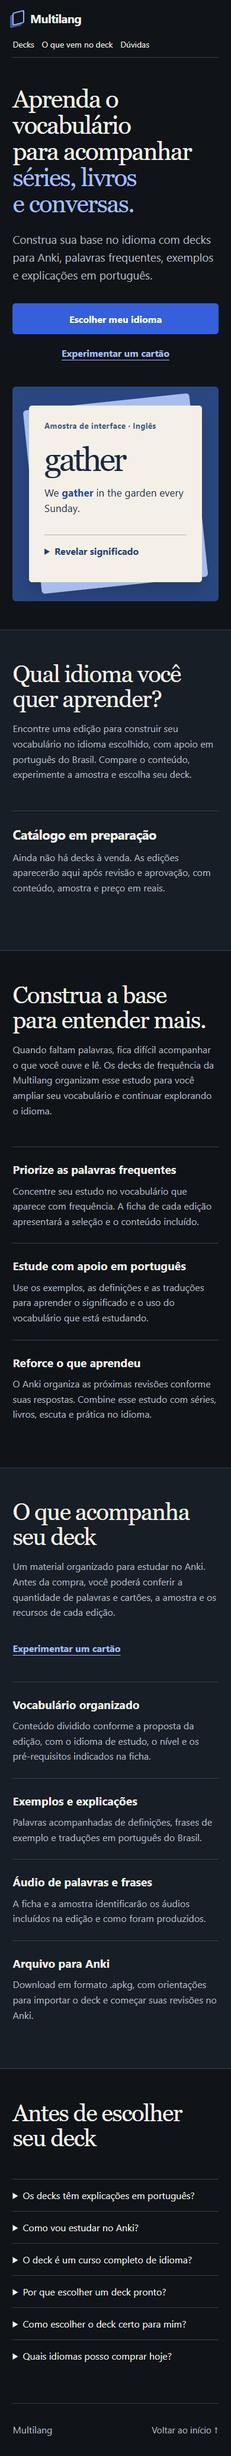
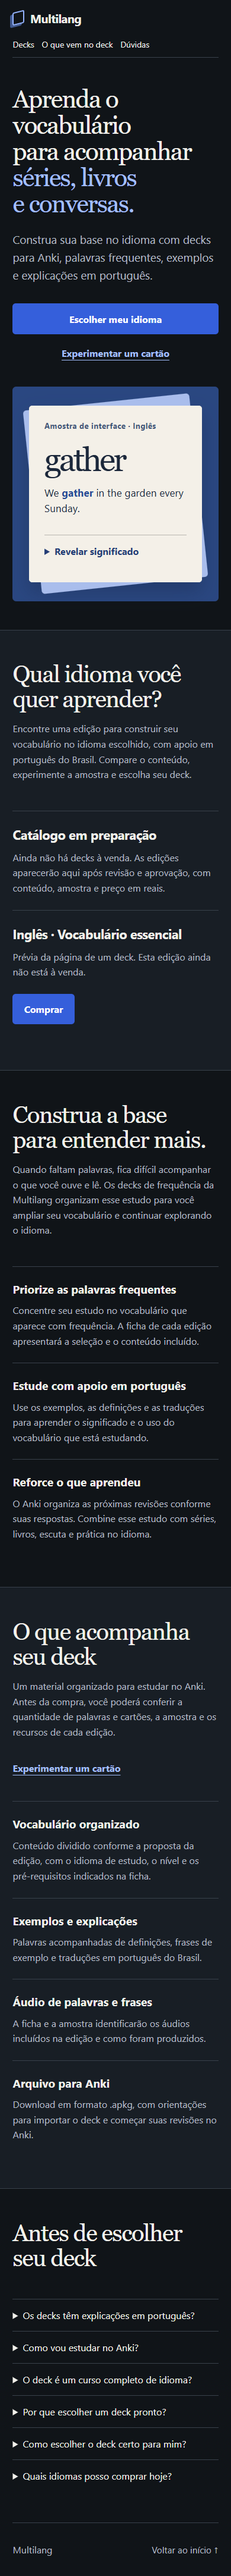
feat(web): add dedicated deck presentation and demo page

diff --git a/frontend/apps/web/decks/ingles-frequencia/index.html b/frontend/apps/web/decks/ingles-frequencia/index.html
@@ -1,0 +1,104 @@
+<!doctype html>
+<html lang="pt-BR" data-type="software">
+<head>
+  <meta charset="utf-8">
+  <meta name="viewport" content="width=device-width, initial-scale=1">
+  <meta name="page-type" content="software">
+  <meta name="site-kind" content="software">
+  <meta name="description" content="Conheça a proposta do deck de inglês da Multilang: vocabulário para Anki, apoio em português, demonstração e dúvidas. Prévia de uma edição em preparação.">
+  <meta property="og:title" content="Inglês · Vocabulário essencial | Multilang">
+  <meta property="og:description" content="Uma base de vocabulário para acompanhar o inglês nas leituras, séries e conversas. Conheça a proposta e experimente um cartão de interface.">
+  <meta property="og:type" content="website">
+  <title>Inglês · Vocabulário essencial | Multilang</title>
+  <link rel="stylesheet" href="../../site.css">
+  <link rel="stylesheet" href="product.css">
+</head>
+<body class="product-page">
+  <a class="skip" href="#conteudo">Pular para o conteúdo</a>
+  <header class="shell">
+    <a href="../../index.html" class="brand" aria-label="Multilang, Loja"><i aria-hidden="true"></i>Multilang</a>
+    <nav aria-label="Deck"><a href="#demo">Demo</a><a href="#avaliacoes">Avaliações</a><a href="#duvidas">Dúvidas</a></nav>
+  </header>
+  <main id="conteudo">
+    <div class="shell breadcrumb"><a class="textlink" href="../../index.html#catalogo">Todos os decks</a><span>Inglês</span></div>
+    <section class="product-hero shell" aria-labelledby="titulo">
+      <div class="pitch">
+        <h1 id="titulo">O vocabulário para começar a <span>entender inglês.</span></h1>
+        <p class="intro">Construa sua base para acompanhar as histórias, as ideias e as conversas que interessam a você. Um deck de frequência para estudar no Anki, com apoio em português.</p>
+        <div class="hero-actions"><a class="action" href="#demo">Experimentar o deck</a><a class="textlink" href="#adquirir">Ver disponibilidade</a></div>
+        <p class="preview-note">Prévia de apresentação. A edição ainda não está disponível para compra.</p>
+      </div>
+      <div class="deck-cover" aria-label="Apresentação do deck digital Inglês, Vocabulário essencial, da Multilang">
+        <span class="cover-brand">Multilang</span>
+        <p class="cover-language">Inglês</p>
+        <p class="cover-title">Vocabulário<br>essencial</p>
+        <dl class="cover-facts"><div><dt>Estudo</dt><dd>Frequência</dd></div><div><dt>Apoio</dt><dd>Português</dd></div><div><dt>Formato</dt><dd>Deck digital · Anki</dd></div></dl>
+      </div>
+    </section>
+
+    <section id="sobre" class="product-band" aria-labelledby="titulo-sobre">
+      <div class="shell split">
+        <div><h2 id="titulo-sobre">Uma base para ir<br>além das palavras soltas.</h2><p class="bodycopy">Este deck reúne a proposta da Multilang para estudar vocabulário frequente de inglês: palavras, significados e exemplos organizados em cartões para revisar no Anki.</p></div>
+        <div class="prose"><h3>Para que serve</h3><p>Para construir e revisar o vocabulário que ajuda você a acompanhar leituras, escuta e situações do dia a dia. Use as revisões junto do contato com o inglês, nos conteúdos e nas conversas que fazem parte da sua vida.</p><h3>Para quem faz sentido</h3><p>Para quem quer organizar o estudo de vocabulário e prefere explicações em português. A ficha da edição aprovada informará o conteúdo, o nível inicial e os pré-requisitos.</p></div>
+      </div>
+    </section>
+
+    <section id="missao" class="mission shell" aria-labelledby="titulo-missao">
+      <h2 id="titulo-missao">Nossa missão é aproximar<br>você de outros idiomas.</h2>
+      <p>Na Multilang, queremos tornar o estudo de vocabulário mais acessível a quem aprende com apoio em português. Nossa proposta combina palavras úteis, conteúdo confiável e uma estrutura que você pode levar para sua rotina no Anki.</p>
+      <p>O objetivo é ajudar você a construir uma base para explorar o idioma com autonomia. Cada edição deve ser revisada e ter seu conteúdo apresentado com clareza antes da venda.</p>
+    </section>
+
+    <section id="caracteristicas" class="product-band" aria-labelledby="titulo-caracteristicas">
+      <div class="shell section-stack">
+        <div class="section-heading"><h2 id="titulo-caracteristicas">O que faz parte<br>do seu estudo</h2><p class="bodycopy">Os recursos abaixo descrevem a proposta desta edição. A versão aprovada terá contagens, amostra, áudios e condições de entrega confirmados na ficha.</p></div>
+        <dl class="feature-list">
+          <div><dt>Vocabulário frequente</dt><dd>Uma seleção organizada para construir sua base. A ficha apresentará a origem do vocabulário e separará a quantidade de palavras da quantidade de cartões.</dd></div>
+          <div><dt>Definições e exemplos</dt><dd>Significados, frases de exemplo e traduções em português para estudar o uso das palavras junto do vocabulário.</dd></div>
+          <div><dt>Áudio de palavras e frases</dt><dd>Gravações separadas para a palavra e para o exemplo. A edição informará os áudios disponíveis e identificará a voz sintetizada quando produzida pelo Azure.</dd></div>
+          <div><dt>Espaço para suas imagens</dt><dd>O campo de imagem começa vazio. Depois de importar o deck, você pode acrescentar no Anki imagens que tenham sentido para o seu estudo.</dd></div>
+          <div><dt>Revisões no Anki</dt><dd>O aplicativo agenda as próximas revisões conforme suas respostas. A prática continua no Anki, junto da sua rotina de leitura, escuta e uso do idioma.</dd></div>
+          <div><dt>Download em .apkg</dt><dd>O formato de entrega previsto é um pacote para importar no Anki. A página da versão publicada trará as instruções de importação e atualização.</dd></div>
+        </dl>
+      </div>
+    </section>
+
+    <section id="demo" class="demo-section shell split" aria-labelledby="titulo-demo" tabindex="-1">
+      <div><h2 id="titulo-demo">Experimente<br>uma revisão.</h2><p class="bodycopy">Leia o exemplo e revele o significado. É uma forma de conhecer a interação antes de escolher seu deck.</p><p class="demo-note">Este cartão foi reaproveitado da demonstração do Estúdio. Ainda não é a amostra de uma edição à venda. O áudio não está disponível nesta prévia.</p></div>
+      <div class="demo-surface">
+        <div class="study-card">
+          <p class="sample-label">Amostra de interface · Inglês</p>
+          <p class="word" lang="en">gather</p>
+          <p class="example" lang="en">We <strong>gather</strong> in the garden every Sunday.</p>
+          <details id="demo-flip" class="flip">
+            <summary><span class="closed">Mostrar verso</span><span class="opened">Ocultar verso</span></summary>
+            <div class="demo-answer"><p><strong>Reunir pessoas ou coisas em um lugar.</strong></p><p>Nós nos reunimos no jardim todos os domingos.</p></div>
+          </details>
+        </div>
+      </div>
+    </section>
+
+    <section id="avaliacoes" class="product-band" aria-labelledby="titulo-avaliacoes">
+      <div class="shell split"><div><h2 id="titulo-avaliacoes">A experiência<br>de quem estuda</h2><p class="bodycopy">Aqui você poderá conhecer os relatos de alunos que usarem esta edição.</p></div><div class="empty-reviews"><h3>Ainda sem avaliações</h3><p>Este deck ainda não foi lançado. As avaliações aparecerão após existirem relatos reais de quem estudou com a edição.</p></div></div>
+    </section>
+
+    <section id="duvidas" class="shell split" aria-labelledby="titulo-duvidas">
+      <h2 id="titulo-duvidas">O que você<br>quer saber?</h2>
+      <div class="faq">
+        <details><summary>O que é um deck para Anki?</summary><p>É um conjunto de cartões de estudo que você importa no Anki. Você tenta lembrar o conteúdo, confere a resposta e informa como foi a revisão para o aplicativo agendar a próxima.</p></details>
+        <details><summary>Preciso saber inglês para começar?</summary><p>As explicações e traduções desta proposta são em português. Os conhecimentos necessários e o público indicado serão informados na ficha da versão aprovada.</p></details>
+        <details><summary>Vou ficar fluente só com o deck?</summary><p>O deck ajuda a estudar vocabulário. Combine as revisões com leitura, escuta, conversa e outras práticas. Seu progresso depende da rotina, do ponto de partida e do contato com o idioma.</p></details>
+        <details><summary>As imagens já vêm nos cartões?</summary><p>O campo de imagem começa vazio. Você pode preenchê-lo manualmente no Anki depois da importação, com imagens que ajudem a lembrar o conteúdo.</p></details>
+        <details><summary>Como são os áudios?</summary><p>A proposta inclui áudio separado para palavras e frases. A versão publicada identificará a voz e os arquivos incluídos. Vozes Azure são sintetizadas, e não gravações de um locutor nativo.</p></details>
+        <details><summary>Como vou receber e importar o deck?</summary><p>A entrega prevista é um arquivo .apkg para abrir no Anki. Antes da venda, serão publicados o procedimento de download, as instruções de importação e as condições de atualização.</p></details>
+        <details><summary>Já posso comprar?</summary><p>Ainda não. Esta é uma prévia da apresentação. A venda depende da aprovação da edição, da amostra correspondente e da definição do preço e das condições comerciais.</p></details>
+      </div>
+    </section>
+
+    <section id="adquirir" class="purchase-section" aria-labelledby="titulo-compra">
+      <div class="shell split"><div><h2 id="titulo-compra">Seu próximo passo<br>no inglês.</h2><p class="bodycopy">Confira a amostra, o conteúdo e os pré-requisitos antes de escolher. O deck deve fazer sentido para o seu momento de estudo.</p></div><div class="purchase-summary"><h3>Inglês · Vocabulário essencial</h3><dl><div><dt>Disponibilidade</dt><dd>Em preparação</dd></div><div><dt>Preço em reais</dt><dd>Em definição</dd></div><div><dt>Formato previsto</dt><dd>Arquivo .apkg para Anki</dd></div></dl><button class="action" type="button" disabled>Compra ainda indisponível</button><p>Você está vendo uma prévia. Nenhum pagamento é solicitado.</p></div></div>
+    </section>
+  </main>
+  <footer class="shell"><span>Multilang</span><a href="../../index.html#catalogo">Voltar à Loja</a></footer>
+</body>
+</html>

diff --git a/frontend/apps/web/decks/ingles-frequencia/product.css b/frontend/apps/web/decks/ingles-frequencia/product.css
@@ -1,0 +1,55 @@
+.breadcrumb { display: flex; align-items: center; gap: 1.25rem; padding-top: 1.25rem; color: var(--muted); }
+.breadcrumb a { display: inline-flex; align-items: center; min-height: 44px; }
+.breadcrumb span { border-left: 1px solid var(--line); padding-left: 1.25rem; }
+.product-hero { display: grid; grid-template-columns: 1.1fr .9fr; align-items: center; gap: clamp(2rem, 6vw, 6rem); padding-block: clamp(2.5rem, 5vw, 5rem); min-height: calc(100svh - 160px); }
+.product-hero h1 { font-size: clamp(2.7rem, 4.7vw, 4.7rem); }
+.preview-note, .demo-note { font-size: .95rem; color: var(--muted); line-height: 1.6; max-width: 44ch; }
+.preview-note { margin: 1.5rem 0 0; }
+.deck-cover { background: #1b3158; color: #eef2f8; padding: clamp(2rem, 4vw, 3.5rem); border-radius: 12px; }
+.cover-brand { display: block; padding-bottom: 2rem; border-bottom: 1px solid #647a9d; font-size: 1.15rem; font-weight: 650; }
+.cover-language { font: 400 clamp(4rem, 7vw, 7rem)/1.1 Georgia, serif; letter-spacing: -.035em; margin: 2rem 0 1rem; }
+.cover-title { color: #bcd1fb; font-size: clamp(1.6rem, 2.5vw, 2.3rem); line-height: 1.2; margin-bottom: 2.5rem; }
+.cover-facts { margin: 0; }
+.cover-facts div { display: flex; justify-content: space-between; flex-wrap: wrap; gap: .5rem; border-top: 1px solid #647a9d; padding-block: .75rem; }
+.cover-facts dt { color: #bcd1fb; }
+.cover-facts dd { margin: 0; }
+.product-band { background: #181e25; border-block: 1px solid var(--line); }
+.prose p, .mission p, .empty-reviews p { color: var(--muted); line-height: 1.65; }
+.prose p { margin-bottom: 2rem; max-width: 52ch; }
+.prose p:last-child { margin-bottom: 0; }
+.prose h3 { margin-bottom: .75rem; }
+.mission { padding-block: clamp(3.5rem, 7vw, 7rem); }
+.mission h2 { max-width: 24ch; margin-bottom: 1.7rem; }
+.mission p { max-width: 68ch; font-size: 1.15rem; }
+.mission p:last-child { margin-bottom: 0; }
+.section-stack { padding-block: clamp(3.5rem, 7vw, 7rem); }
+.section-heading { display: grid; grid-template-columns: 1fr 1fr; gap: clamp(2rem, 5vw, 6rem); align-items: start; margin-bottom: 3rem; }
+.feature-list { margin: 0; }
+.feature-list div { display: grid; grid-template-columns: 1fr 1fr; gap: clamp(1rem, 5vw, 6rem); padding-block: 1.6rem; border-top: 1px solid var(--line); }
+.feature-list dt { font-size: 1.25rem; font-weight: 650; }
+.feature-list dd { margin: 0; color: var(--muted); line-height: 1.6; max-width: 52ch; }
+.demo-section:focus { outline: 3px solid #feae68; outline-offset: 4px; }
+.demo-surface { padding: clamp(1.25rem, 3vw, 3rem); background: #1b3158; border-radius: 12px; }
+.study-card { color-scheme: light; color: #1b273a; background: #f4f0e8; padding: clamp(1.4rem, 3vw, 3rem); border-radius: 12px; }
+.study-card .word { letter-spacing: -.035em; }
+.empty-reviews { border-top: 1px solid var(--line); padding-top: 1.5rem; }
+.empty-reviews h3 { margin-bottom: .75rem; }
+.purchase-section { background: #1b2b48; }
+.purchase-section .bodycopy { color: #c6d5ee; }
+.purchase-summary { padding-block: 1rem; }
+.purchase-summary dl { margin-block: 1.5rem; }
+.purchase-summary dl div { display: flex; flex-wrap: wrap; justify-content: space-between; gap: .5rem 1rem; padding-block: 1rem; border-top: 1px solid #60718f; }
+.purchase-summary dt { color: #c6d5ee; }
+.purchase-summary dd { margin: 0; }
+.purchase-summary button { width: 100%; justify-content: center; border: 0; font: inherit; min-height: 52px; }
+.purchase-summary button:disabled { background: #34445f; color: #d3deef; cursor: not-allowed; transform: none; }
+.purchase-summary > p { color: #c6d5ee; font-size: .95rem; line-height: 1.6; margin: 1rem 0 0; }
+@media (prefers-reduced-motion: no-preference) { .product-hero .pitch { animation: arrive .45s ease-out; } }
+@media (max-width: 760px) {
+  .product-hero, .section-heading, .feature-list div { grid-template-columns: 1fr; }
+  .product-hero { min-height: auto; padding-block: 2rem 3rem; }
+  .deck-cover { max-width: 100%; }
+  .feature-list div { gap: .75rem; }
+  .section-heading { margin-bottom: 2rem; }
+  .product-page .hero-actions a { min-height: 48px; }
+}

diff --git a/frontend/apps/web/index.html b/frontend/apps/web/index.html
@@ -47,6 +47,11 @@
         <div class="availability">
           <h3>Catálogo em preparação</h3>
           <p>Ainda não há decks à venda. As edições aparecerão aqui após revisão e aprovação, com conteúdo, amostra e preço em reais.</p>
+          <article class="catalog-preview" aria-labelledby="preview-title">
+            <h3 id="preview-title">Inglês · Vocabulário essencial</h3>
+            <p id="preview-note">Prévia da página de um deck. Esta edição ainda não está à venda.</p>
+            <a class="action" href="decks/ingles-frequencia/index.html" aria-describedby="preview-note">Comprar</a>
+          </article>
         </div>
       </div>
     </section>

diff --git a/frontend/apps/web/site.css b/frontend/apps/web/site.css
@@ -59,6 +59,8 @@ h2 { font-size: clamp(2.5rem, 4vw, 4.1rem); line-height: 1.05; letter-spacing: -
 h3 { font-size: 1.4rem; letter-spacing: -.03em; }
 .availability { border-top: 1px solid var(--line); padding-block: 1.5rem; }
 .availability h3 { margin-bottom: .7rem; }
+.catalog-preview { border-top: 1px solid var(--line); margin-top: 1.5rem; padding-top: 1.5rem; }
+.catalog-preview .action { margin-top: .5rem; }
 .textlink { color: var(--blue); font-weight: 650; text-decoration: underline; text-underline-offset: .3em; }
 .textlink:hover { color: #c7d8ff; text-decoration-thickness: 2px; }
 .benefits { margin: 0; }

diff --git a/frontend/scripts/check-storefront-ui.py b/frontend/scripts/check-storefront-ui.py
@@ -1,0 +1,107 @@
+"""Exercise the local deck sales journey with installed Python Playwright and Chrome."""
+
+import argparse
+import json
+from pathlib import Path
+from urllib.parse import unquote, urlsplit
+from urllib.request import url2pathname
+
+from playwright.sync_api import expect, sync_playwright
+
+
+ROOT = Path(__file__).resolve().parents[2]
+WEB = ROOT / "frontend/apps/web"
+WIDTHS = (1440, 1024, 820, 768, 390, 320)
+
+
+def check_links(page):
+    for href in page.locator("a").evaluate_all("links => links.map(link => link.href)"):
+        parsed = urlsplit(href)
+        assert parsed.scheme == "file", href
+        destination = Path(url2pathname(parsed.path)).resolve()
+        assert destination.is_relative_to(WEB) and destination.is_file(), href
+        if destination == Path(url2pathname(urlsplit(page.url).path)).resolve() and parsed.fragment:
+            assert page.locator(f'[id="{unquote(parsed.fragment)}"]').count() == 1, href
+
+
+def main():
+    parser = argparse.ArgumentParser(description=__doc__)
+    parser.add_argument("--screenshots", action="store_true")
+    args = parser.parse_args()
+    output = ROOT / "output/previews/loja-publica/edicao"
+    reports = ROOT / "output/reports/deck-product-page"
+    reports.mkdir(parents=True, exist_ok=True)
+    rows = []
+    with sync_playwright() as playwright:
+        browser = playwright.chromium.launch(channel="chrome", headless=True)
+        try:
+            for width in WIDTHS:
+                page = browser.new_page(
+                    viewport={"width": width, "height": 900 if width > 760 else 844},
+                    reduced_motion="reduce",
+                )
+                page.set_default_timeout(3000)
+                errors, network, failed = [], [], []
+                page.on("pageerror", lambda error: errors.append(str(error)))
+                page.on("requestfailed", lambda request: failed.append(request.url))
+                page.on("request", lambda request: network.append(request.url)
+                        if request.url.startswith(("http:", "https:")) else None)
+                page.goto((WEB / "index.html").as_uri())
+                check_links(page)
+                page.get_by_role("link", name="Comprar", exact=True).click()
+                assert urlsplit(page.url).path.endswith("/decks/ingles-frequencia/index.html")
+                expect(page.locator("h1")).to_contain_text("ingl\u00eas")
+                assert page.evaluate("document.documentElement.scrollWidth <= innerWidth"), width
+                check_links(page)
+                for section in ("sobre", "missao", "caracteristicas", "demo", "avaliacoes", "duvidas", "adquirir"):
+                    expect(page.locator(f"#{section}")).to_be_visible()
+                page.keyboard.press("Tab")
+                expect(page.locator(".skip")).to_be_focused()
+                page.keyboard.press("Enter")
+                page.get_by_role("link", name="Experimentar o deck", exact=True).click()
+                expect(page.locator("#demo")).to_be_focused()
+                demo = page.locator("#demo-flip")
+                demo.locator("summary").press("Enter")
+                expect(demo).to_have_attribute("open", "")
+                expect(demo.locator(".demo-answer")).to_contain_text("Reunir pessoas")
+                demo.locator("summary").press("Enter")
+                expect(demo).not_to_have_attribute("open", "")
+                expect(page.locator("#avaliacoes")).to_contain_text("Ainda sem avalia\u00e7\u00f5es")
+                expect(page.locator("#adquirir button")).to_be_disabled()
+                for details in page.locator(".faq details").all():
+                    details.locator("summary").click()
+                    expect(details).to_have_attribute("open", "")
+                    assert page.evaluate("document.documentElement.scrollWidth <= innerWidth"), width
+                    details.locator("summary").click()
+                for control in page.locator("a, button, summary").all():
+                    assert control.bounding_box()["height"] >= 44, (width, "small control")
+                expect(page.locator("script, form, input")).to_have_count(0)
+                if args.screenshots and width in (1440, 390):
+                    output.mkdir(parents=True, exist_ok=True)
+                    page.goto((WEB / "decks/ingles-frequencia/index.html").as_uri())
+                    page.screenshot(path=str(output / f"ingles-{width}.png"), full_page=width == 390)
+                    if width == 1440:
+                        page.screenshot(path=str(reports / "desktop-full.png"), full_page=True)
+                        page.locator("#demo").screenshot(path=str(output / "demo-1440.png"))
+                        page.locator("#missao").screenshot(path=str(reports / "mission-1440.png"))
+                        page.locator("#adquirir").screenshot(path=str(reports / "purchase-1440.png"))
+                    else:
+                        page.screenshot(path=str(reports / "mobile-top.png"))
+                page.get_by_role("link", name="Todos os decks", exact=True).click()
+                assert Path(url2pathname(urlsplit(page.url).path)) == WEB / "index.html"
+                assert not errors and not network and not failed, (errors, network, failed)
+                if args.screenshots and width in (1440, 390):
+                    page.goto((WEB / "index.html").as_uri())
+                    page.screenshot(
+                        path=str(output.parent / f"loja-{width}.png"), full_page=width == 390
+                    )
+                rows.append({"width": width, "journey": "pass", "keyboard": "pass", "overflow": False})
+                page.close()
+        finally:
+            browser.close()
+    (reports / "checks.json").write_text(json.dumps(rows, indent=2), encoding="utf-8")
+    print(f"PASS: deck sales journey at {len(rows)} widths, no providers or payment calls.")
+
+
+if __name__ == "__main__":
+    main()

diff --git a/docs/product-interface.md b/docs/product-interface.md
@@ -136,18 +136,38 @@ detalha os componentes dos decks e responde às dúvidas de compra. Economia de
 preparo é um benefício secundário, não a promessa principal. A demonstração atual
 continua identificada como amostra de interface; não representa uma edição à venda.
 
-Cada página de produto deverá seguir esta sequência quando houver uma edição aprovada:
+O botão **Comprar** de um deck abre uma página própria de apresentação antes do
+checkout, na mesma aba. Não inicia pagamento nem dispara geração. A prévia local
+usa `frontend/apps/web/decks/ingles-frequencia/index.html`, ligada à entrada de
+demonstração no catálogo. Essa entrada é identificada como prévia e não constitui
+uma edição publicada ou disponível para venda.
 
-1. Nome específico do idioma e objetivo, por exemplo "Vocabulário essencial de inglês".
-2. Público, pré-requisitos, seleção do vocabulário e conteúdo incluído. Separar
-   identidades lexicais e cartões; não usar faixas de frequência como certificados.
-3. Amostra real daquela versão, com frente, verso e os áudios efetivamente incluídos.
-4. Preço final em BRL, compra avulsa, entrega e condições de atualização junto à compra.
-5. Dúvidas sobre importação, escolha da edição, estudo e atendimento.
+A página apresenta:
+
+1. O idioma e o objetivo do deck, com uma apresentação visual da edição.
+2. O que é, para que serve, a quem se destina e os pré-requisitos.
+3. A missão da Multilang, com foco em vocabulário confiável e apoio em português.
+4. Conteúdo e características: vocabulário, definições, exemplos, traduções,
+   áudio separado de palavra e frase, campo de imagem vazio e pacote .apkg.
+5. Demonstração na própria página, com frente e verso interativos.
+6. Avaliações da edição e perguntas frequentes sobre estudo e compra.
+7. Disponibilidade, preço final em BRL, entrega, atualizações e ação de compra.
+
+A direção grafite e azul é preservada. Capa tipográfica, texto, missão e
+composição pertencem à Multilang; a referência Refold orienta a função comercial,
+sem fornecer arte, textos, depoimentos ou promessas para a página.
+
+A demonstração de inglês reaproveita o cartão `gather` do Estúdio; não gera
+conteúdo novo nem áudio. Está identificada como amostra de interface, com áudio
+indisponível. As avaliações estão vazias, sem nota, estrelas ou relatos inventados.
+Preço está em definição e o botão final permanece desabilitado. Na publicação de
+uma edição real, substituir a demo por cartões e mídia daquela versão, confirmar
+contagens e requisitos, e implementar a oferta e o checkout. Separar identidades
+lexicais e cartões; não usar faixas de frequência como certificados.
 
 Catálogo com busca e filtros por idioma e tipo deve refletir as edições publicadas.
-Não oferecer idiomas sem edição aprovada nem adicionar produtos fictícios para
-preencher a vitrine. Depoimentos entram após existirem relatos próprios autorizados.
+Não oferecer idiomas sem edição aprovada nem apresentar prévias como produtos à
+venda. Depoimentos entram após existirem relatos próprios autorizados.
 
 A página de cada edição publicada deverá mostrar exemplos reais daquela
 versão, áudio quando incluído, conteúdo, preço total e uma ação de compra. Depoimentos

diff --git a/frontend/README.md b/frontend/README.md
@@ -5,13 +5,27 @@ cada um com entrada, navegação e folha de estilo próprias. Ambos abrem direta
 no navegador, sem build ou servidor:
 
 - [Loja](apps/web/index.html): demonstração de cartão do Estúdio, catálogo em
-  preparação e ajuda sobre baralhos prontos.
+  preparação e ajuda sobre baralhos prontos. O botão **Comprar** da entrada de
+  prévia abre a [página do deck de inglês](apps/web/decks/ingles-frequencia/index.html).
+  Ela apresenta objetivo, missão, características, cartão interativo, avaliações
+  ainda vazias e dúvidas. A edição não está à venda; preço e checkout estão pendentes.
 - [Gerador pessoal](apps/generator/index.html): instruções de formato para listas
   próprias e destaques do Kindle, sem upload ou geração nesta prévia.
 
 Compra, conta e bibliotecas estão planejadas. A conta compartilhada é uma integração
 futura; os sites não dependem um do outro para abrir. Hospedagem e domínios ficam
 para uma etapa posterior.
+
+Com Python Playwright e Google Chrome já instalados, execute na raiz do repositório:
+
+```powershell
+python frontend/scripts/check-storefront-ui.py --screenshots
+```
+
+A verificação percorre Loja → Comprar → página do deck → Loja em seis larguras,
+inclui teclado, demo e perguntas frequentes, e não chama provedores nem pagamentos.
+As capturas ficam em `output/previews/loja-publica/` e os resultados em
+`output/reports/deck-product-page/`. O parâmetro `--screenshots` é opcional.
 
 A direção visual é grafite e azul. A hierarquia, a paleta e o comportamento
 responsivo estão em [DESIGN.md](DESIGN.md).
